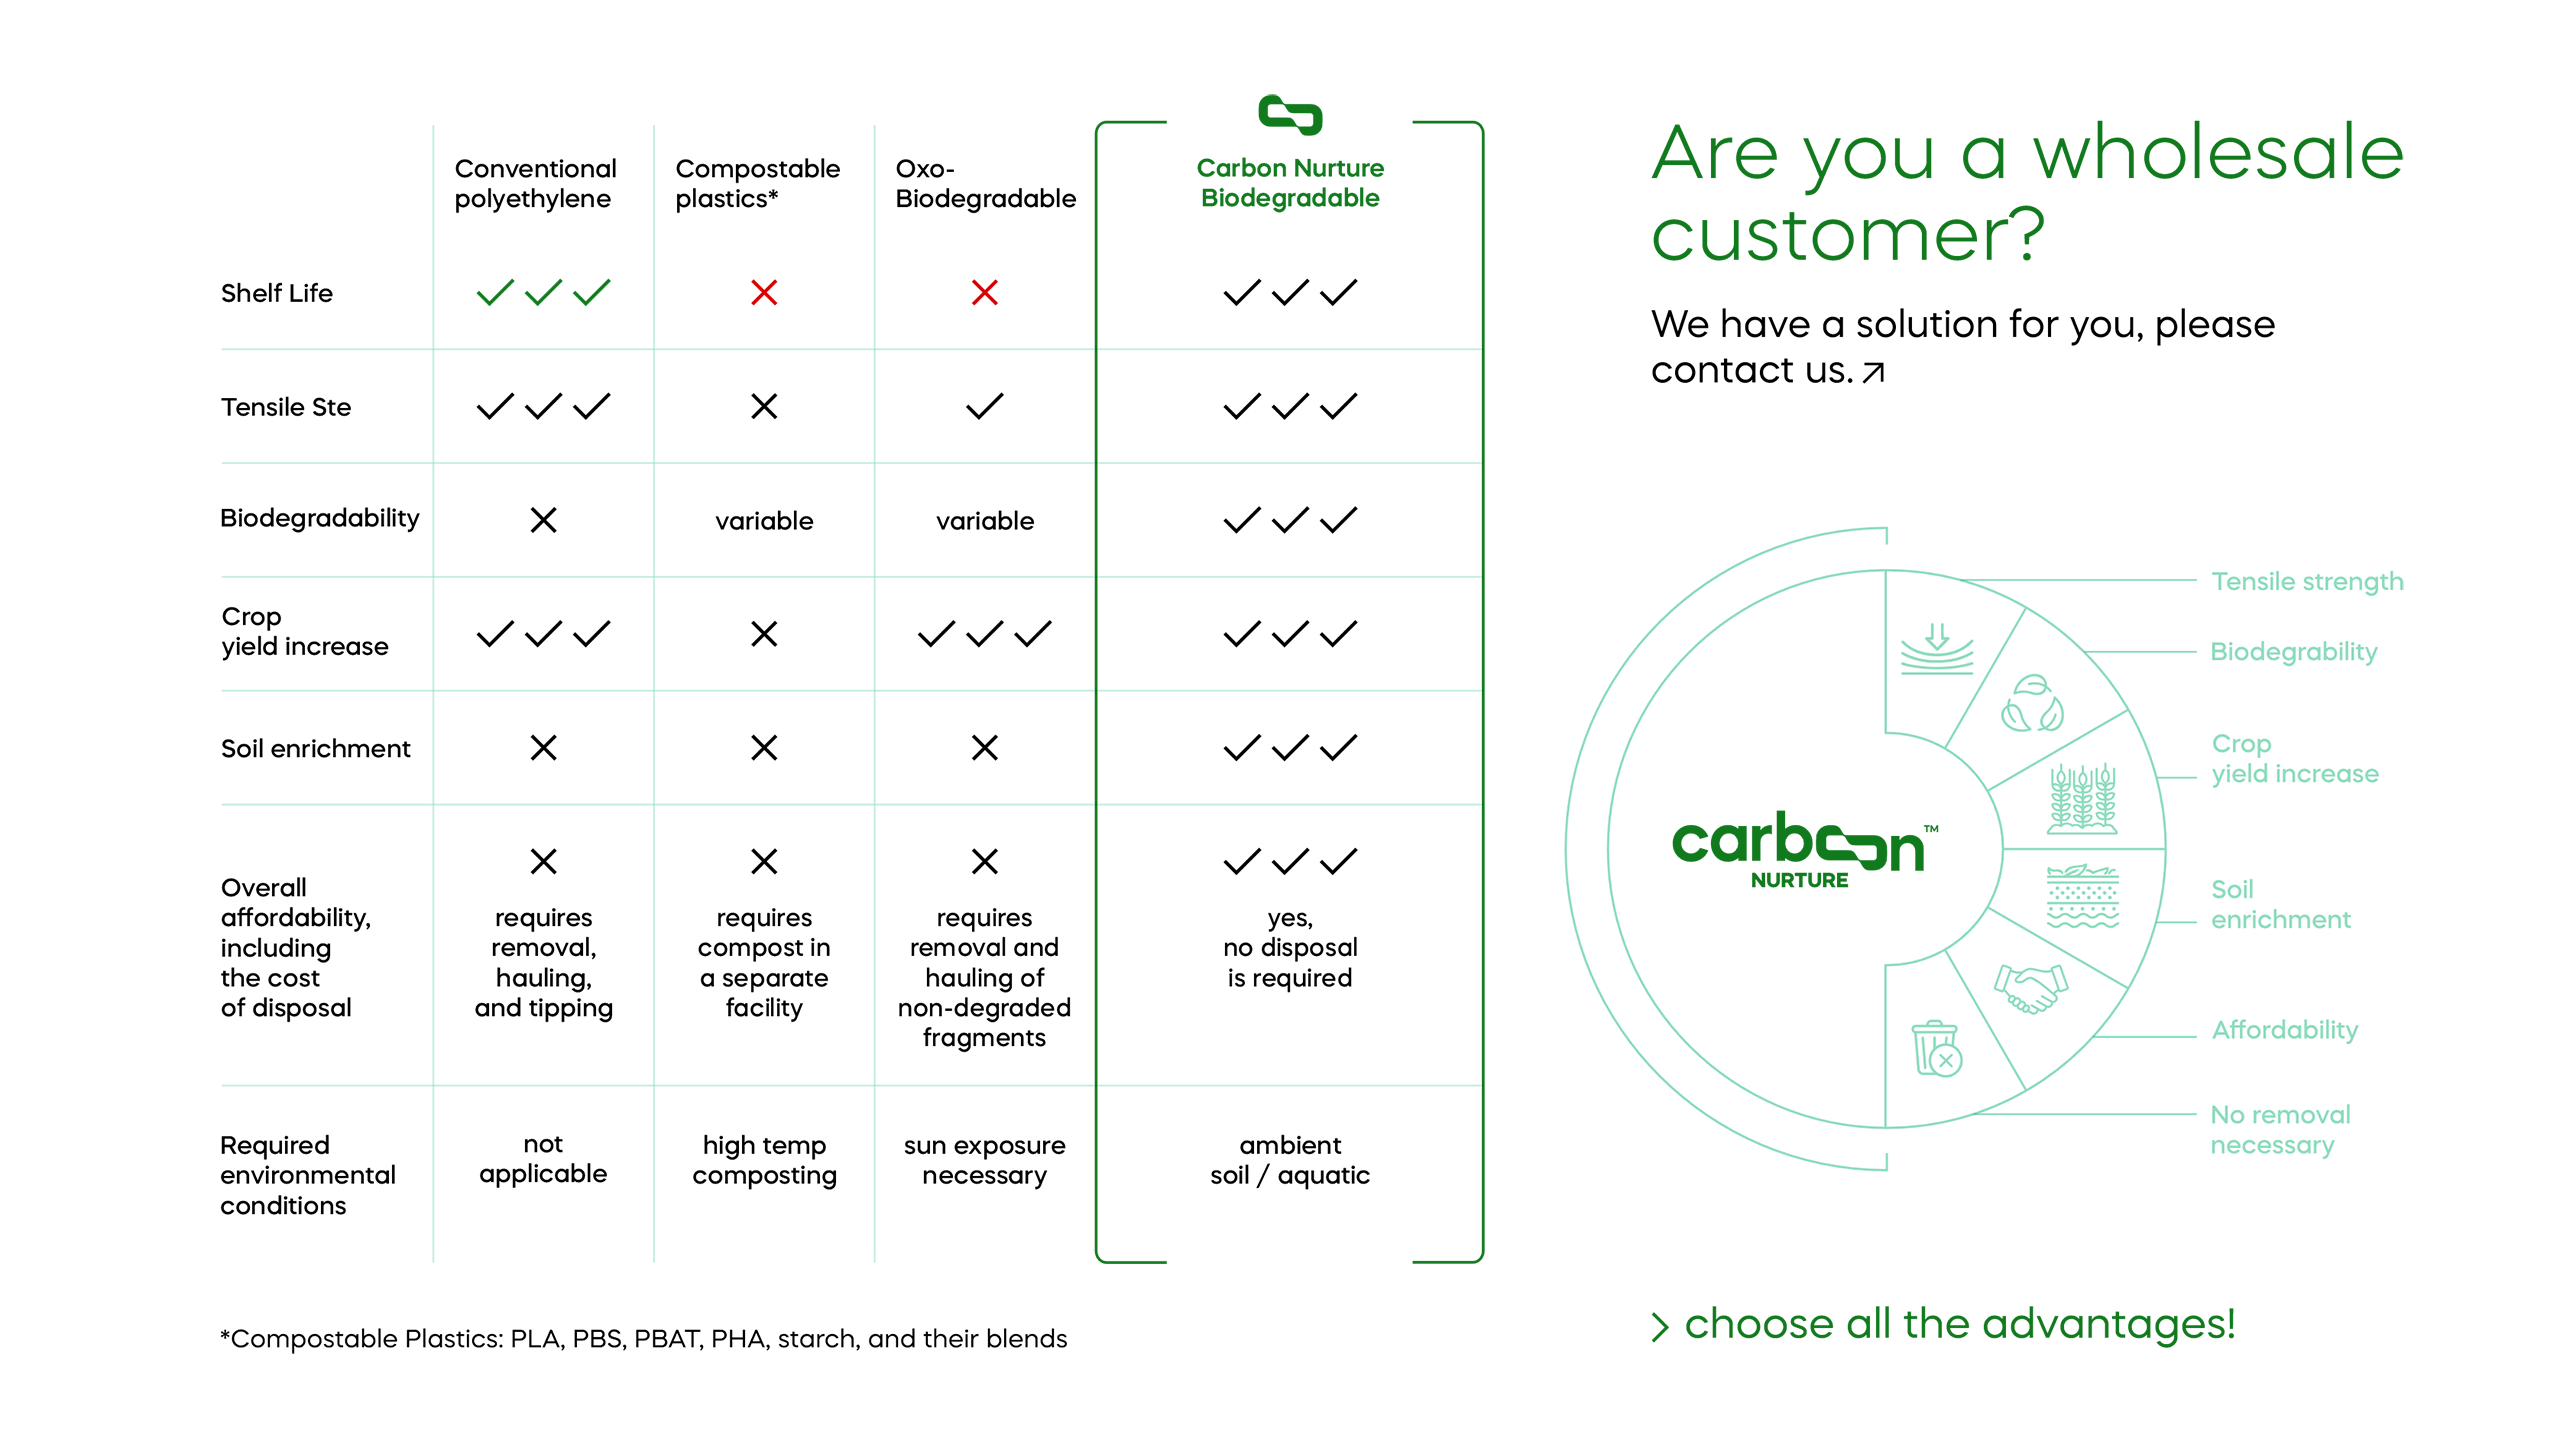
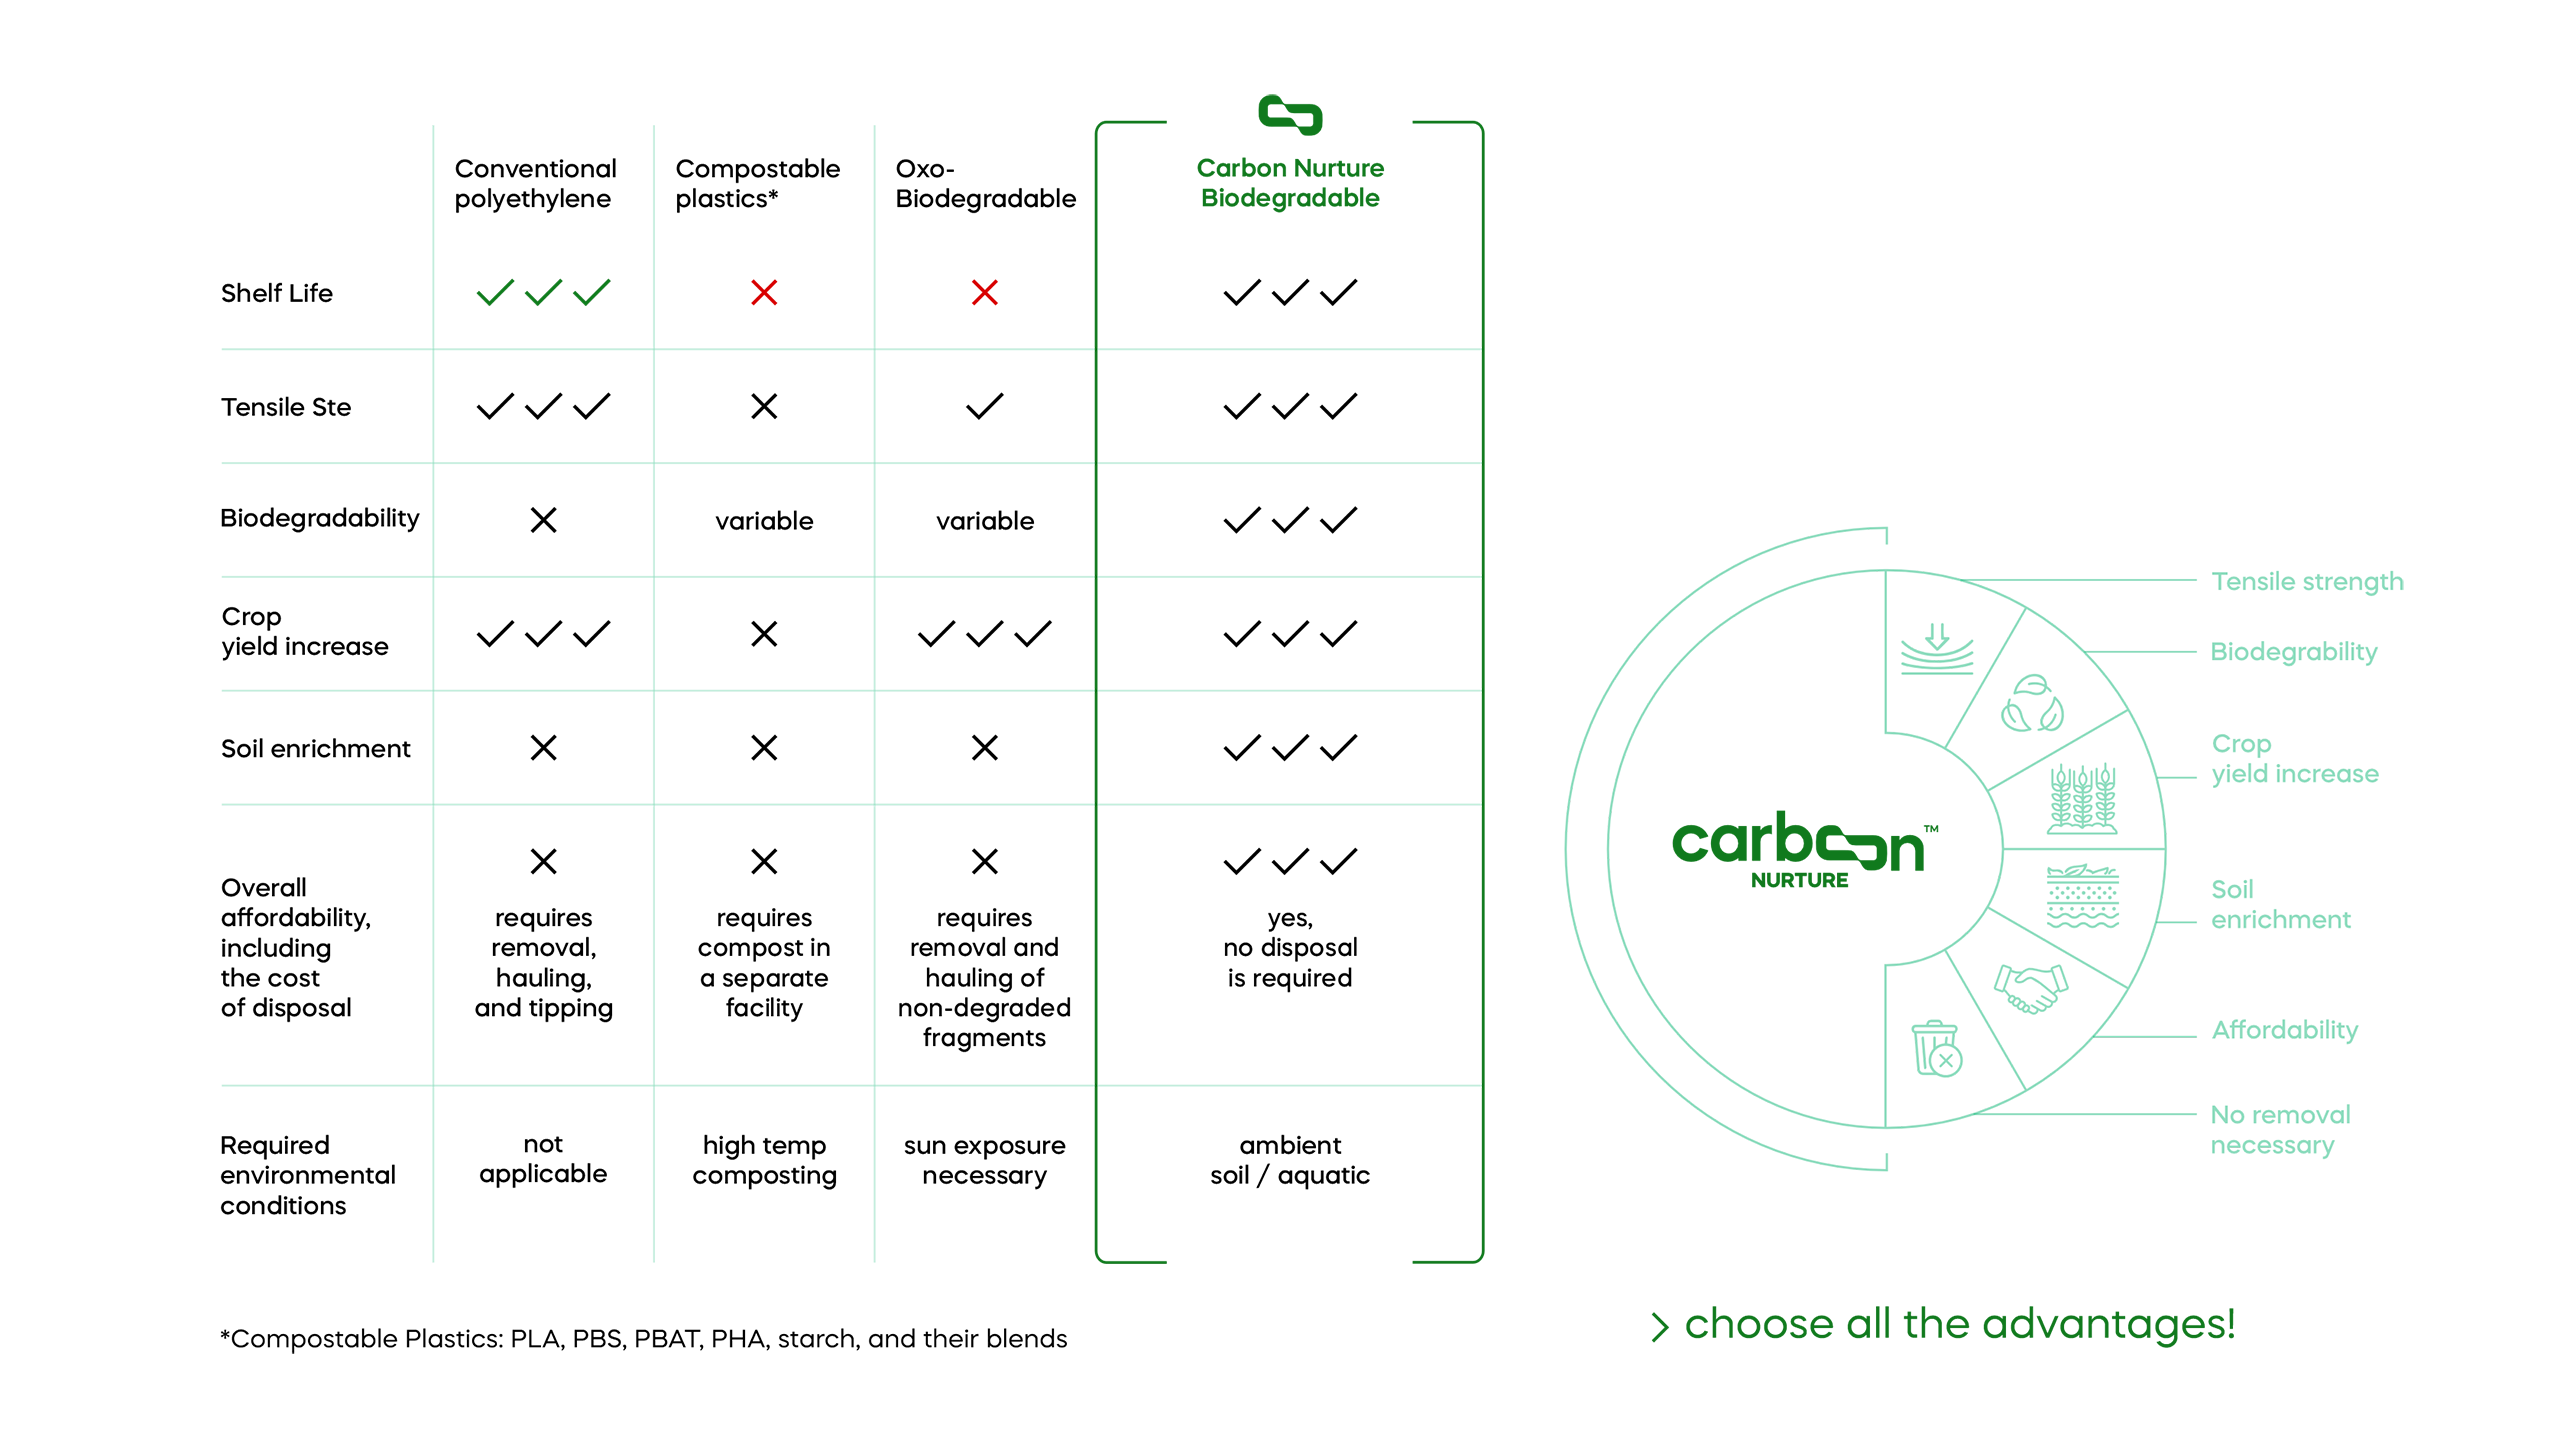
finish footer

Changed region(s): [[0.6562, 0.0932, 0.9375, 0.1865], [0.6562, 0.2175, 0.9062, 0.2797]]

diff --git a/pages/index.vue b/pages/index.vue
@@ -130,14 +130,22 @@ for generations to come.</h4>
 
  <!-- банер с иконками -->
 
-
  <div class="container position-relative p-0">
-  <!-- Фон с изображением и стрелкой -->
+  <!-- Фон с изображением -->
   <img src="/assets/images/tabl.png" class="img-fluid w-100" alt="Background Image">
 
-  
-  
+  <!-- Текстовый блок в верхнем правом углу с зеленой полосой -->
+  <div class="position-absolute top-0 end-0 text-start custom-text-box">
+    <div class="text-content">
+      <h3 class="text-success fw-bold">Are you a wholesale customer?</h3>
+      <a href="/contact" class="text-dark text-decoration-none">We have a solution for you,<br> please contact us. <i class="bi bi-box-arrow-up-right"></i></a>
+    </div>
+  </div>
 </div>
+
+
+
+
 
 
 
@@ -154,6 +162,33 @@ for generations to come.</h4>
     import "bootstrap-icons/font/bootstrap-icons.css";
     </script>
     <style scoped>
+.text-success {
+  color: #107a1d !important;
+
+
+}
+
+
+  .custom-text-box {
+    max-width: 40%; /* Ограничиваем ширину */
+    padding: 61px;
+
+  }
+
+  .text-content {
+    border-left: 3px solid #107a1d; /* Зеленая полоса */
+    padding-left: 15px;
+  }
+
+  .bi-box-arrow-up-right {
+    font-size: 14px;
+  }
+
+
+
+
+
+
   .icon-container {
   position: relative;
 }

diff --git a/components/Footer.vue b/components/Footer.vue
@@ -80,17 +80,22 @@
         </div>
       </div>
       <div class="row mt-5 pt-4 border-top justify-content-center text-center">
-        <div class="col-12">
+        <div class="col-6">
+         
+          
+          <p class="mb-2 text-start">
+           Laboratory located in Massachusetts 
+              Manufactured in North Carolina 115 Morrison Ave, Thomasville, NC 27360
+          </p>
+         
+        </div>
+        <div class="col-6">
           <p class="mb-2">
             Copyright &copy; {{ currentYear }} All rights reserved
           </p>
           
           <p class="mb-2">
             <strong>Carbon Nurture</strong>
-          </p>
-          <p class="mb-0">
-            <a href="#" class="mr-3">Terms &amp; Conditions</a>
-            <a href="#">Privacy</a>
           </p>
           <p class="mb-2">
             Created by <a href="https://github.com/lopezdeniz" target="_blank">LopezDeniz</a>
